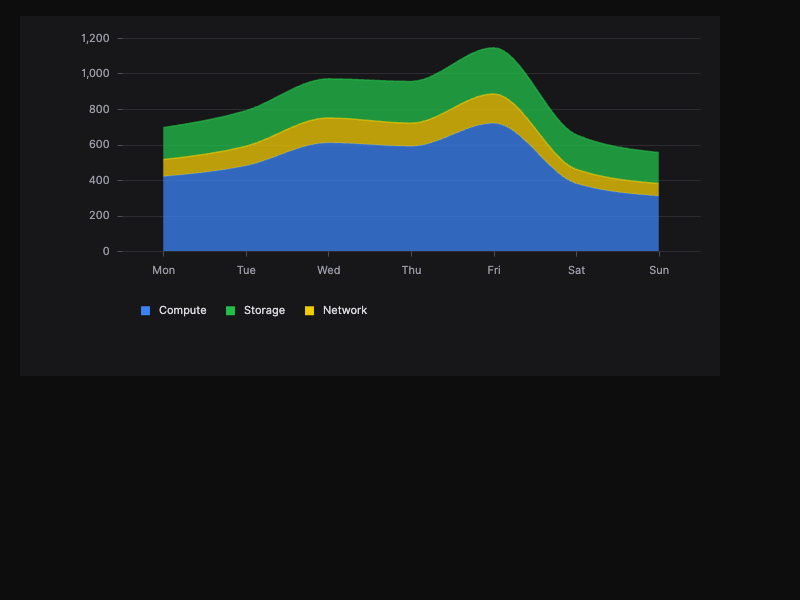
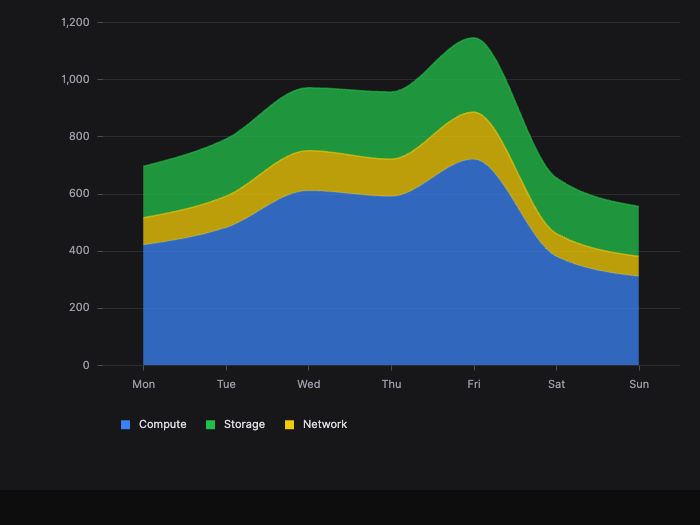
Fix thumbnail: trim to exact 4:3 chart bounds, switch back to object-cover

diff --git a/src/data/projects.ts b/src/data/projects.ts
@@ -6,8 +6,8 @@ export const projectsData: ProjectData[] = [
     description: 'A complete data visualization design system for operational monitoring—from design tokens and Figma variables to interactive Vega charts with real-time simulations. Built for data engineers and infrastructure teams who need high-signal, low-noise graphics.',
     designerDeveloperDescription: 'Designed and implemented a full visualization design system: W3C design tokens, 6 Figma chart primitives grounded in Grammar of Graphics theory, and 4 production Vega chart implementations with interactive real-time simulations and light/dark mode theming.',
     image: '/images/data-graphics-hero.png',
-    imageFit: 'contain',
-    imagePosition: 'center',
+    imageFit: 'cover',
+    imagePosition: 'top',
     link: '/projects/data-graphics',
     tags: ['Data Visualization', 'Design Systems', 'Vega', 'Design Engineering'],
     designerDeveloperTags: ['Vega', 'JavaScript', 'Figma', 'Design Tokens', 'Design Systems', 'Data Visualization'],

diff --git a/public/data-graphics/chart3.html b/public/data-graphics/chart3.html
@@ -26,7 +26,7 @@
   <script>
     const spec = {
       "$schema": "https://vega.github.io/schema/vega/v5.json",
-      "width": 700, "height": 360,
+      "width": 700, "height": 490,
       "padding": {"top": 16, "left": 60, "right": 20, "bottom": 50},
       "background": "#171719",
       "autosize": {"type": "fit", "contains": "padding"},
